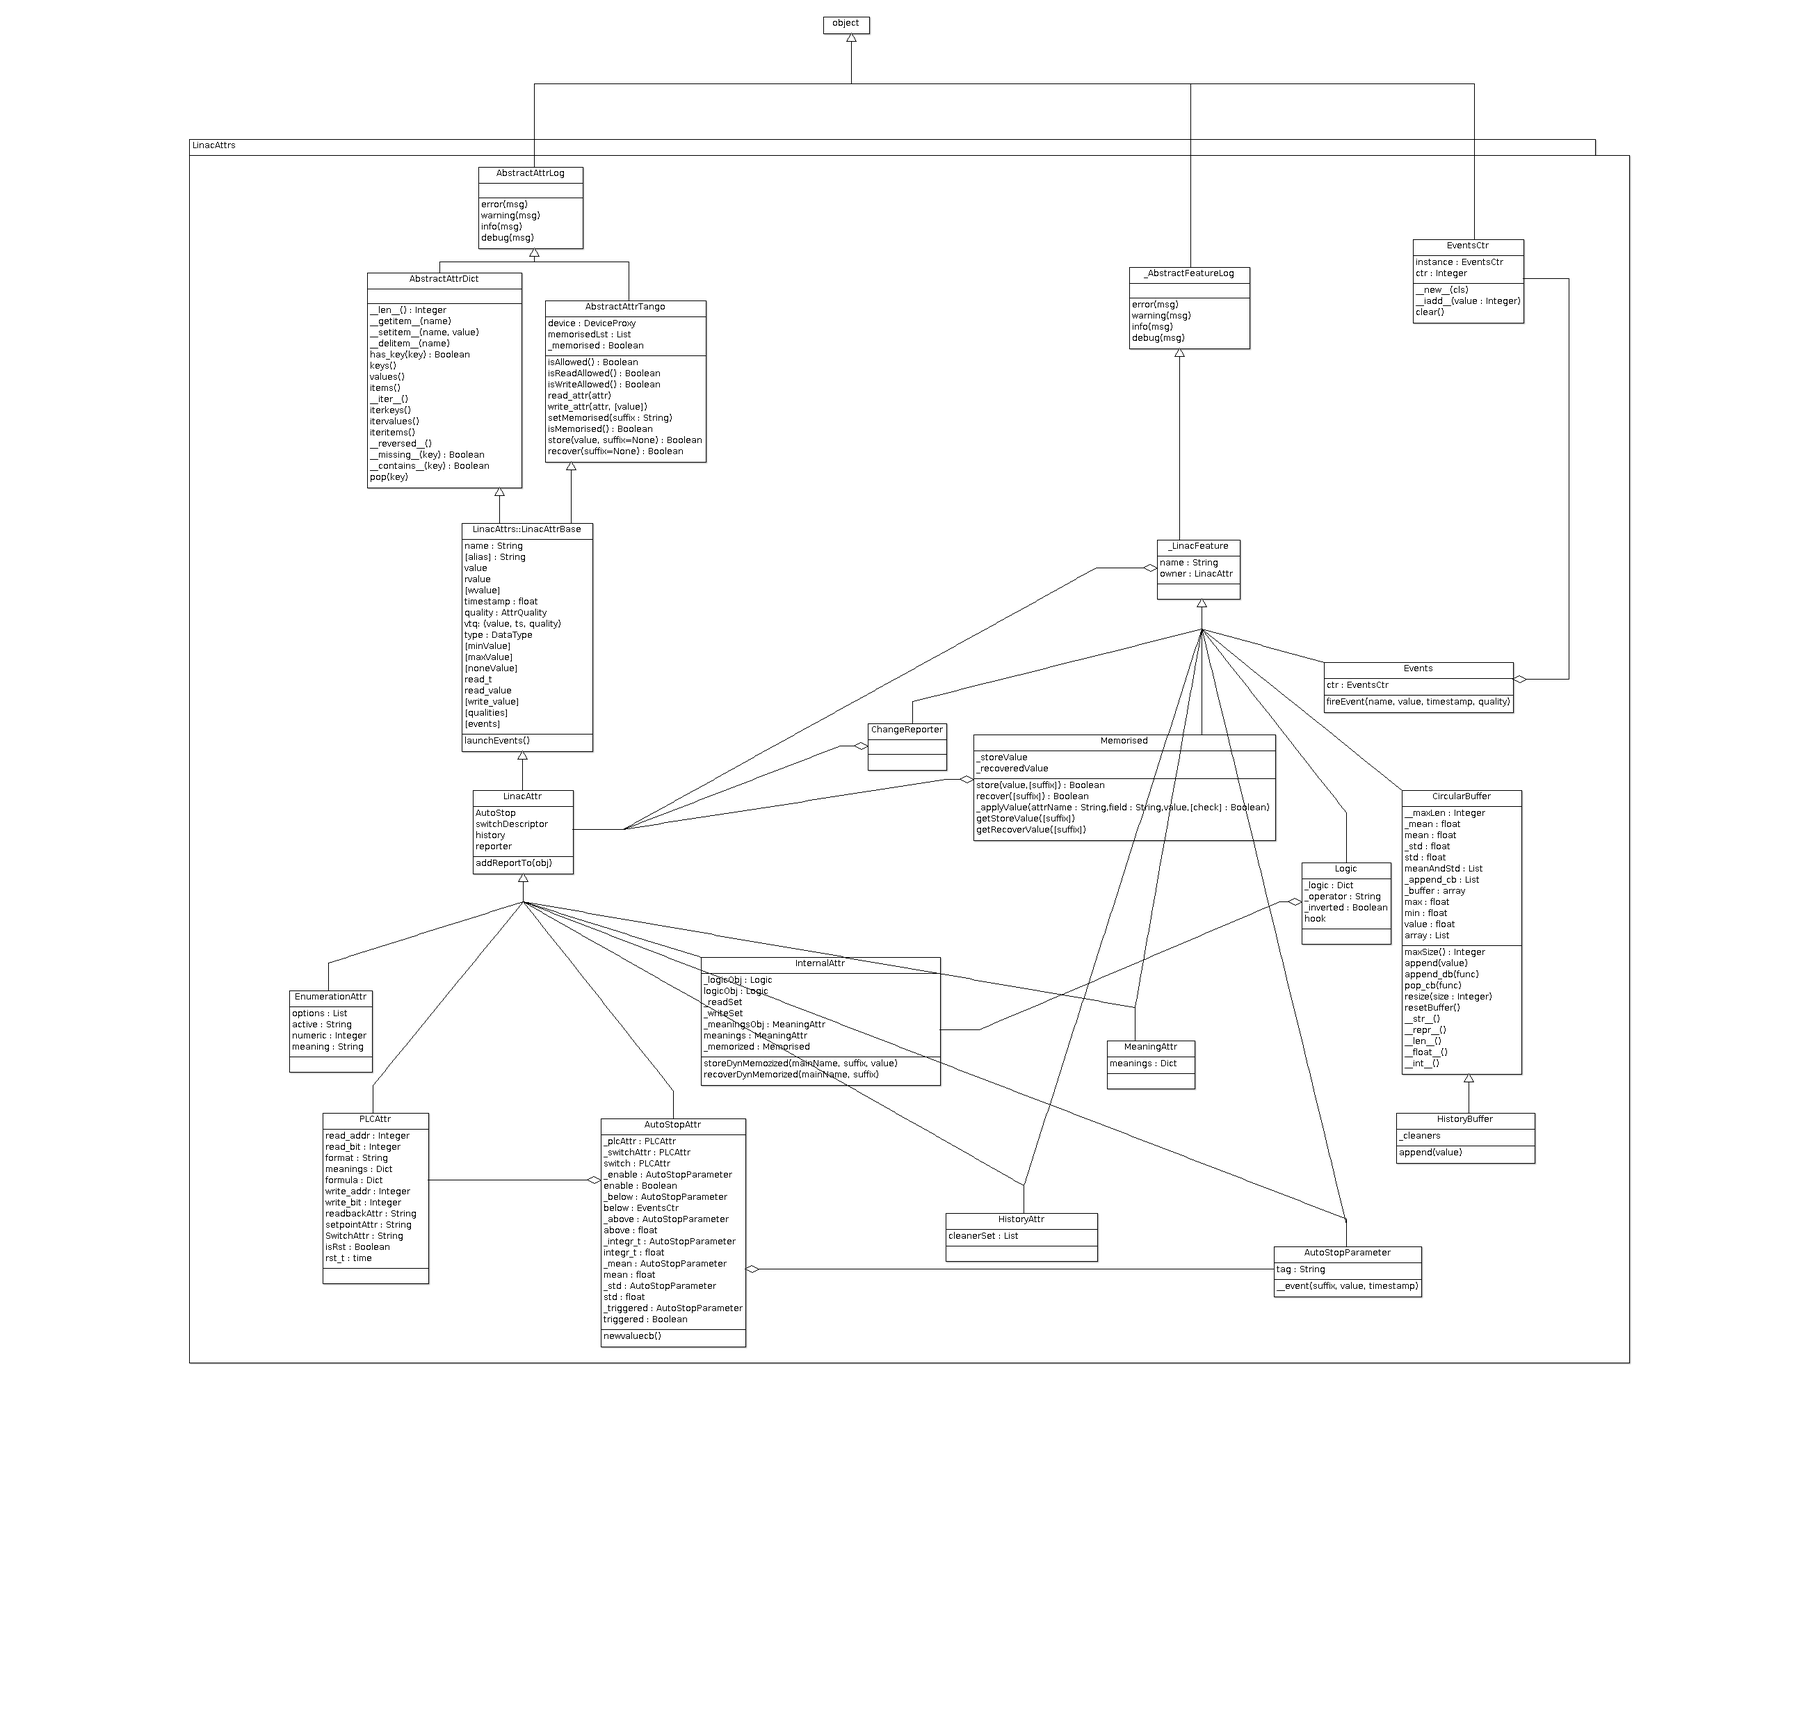
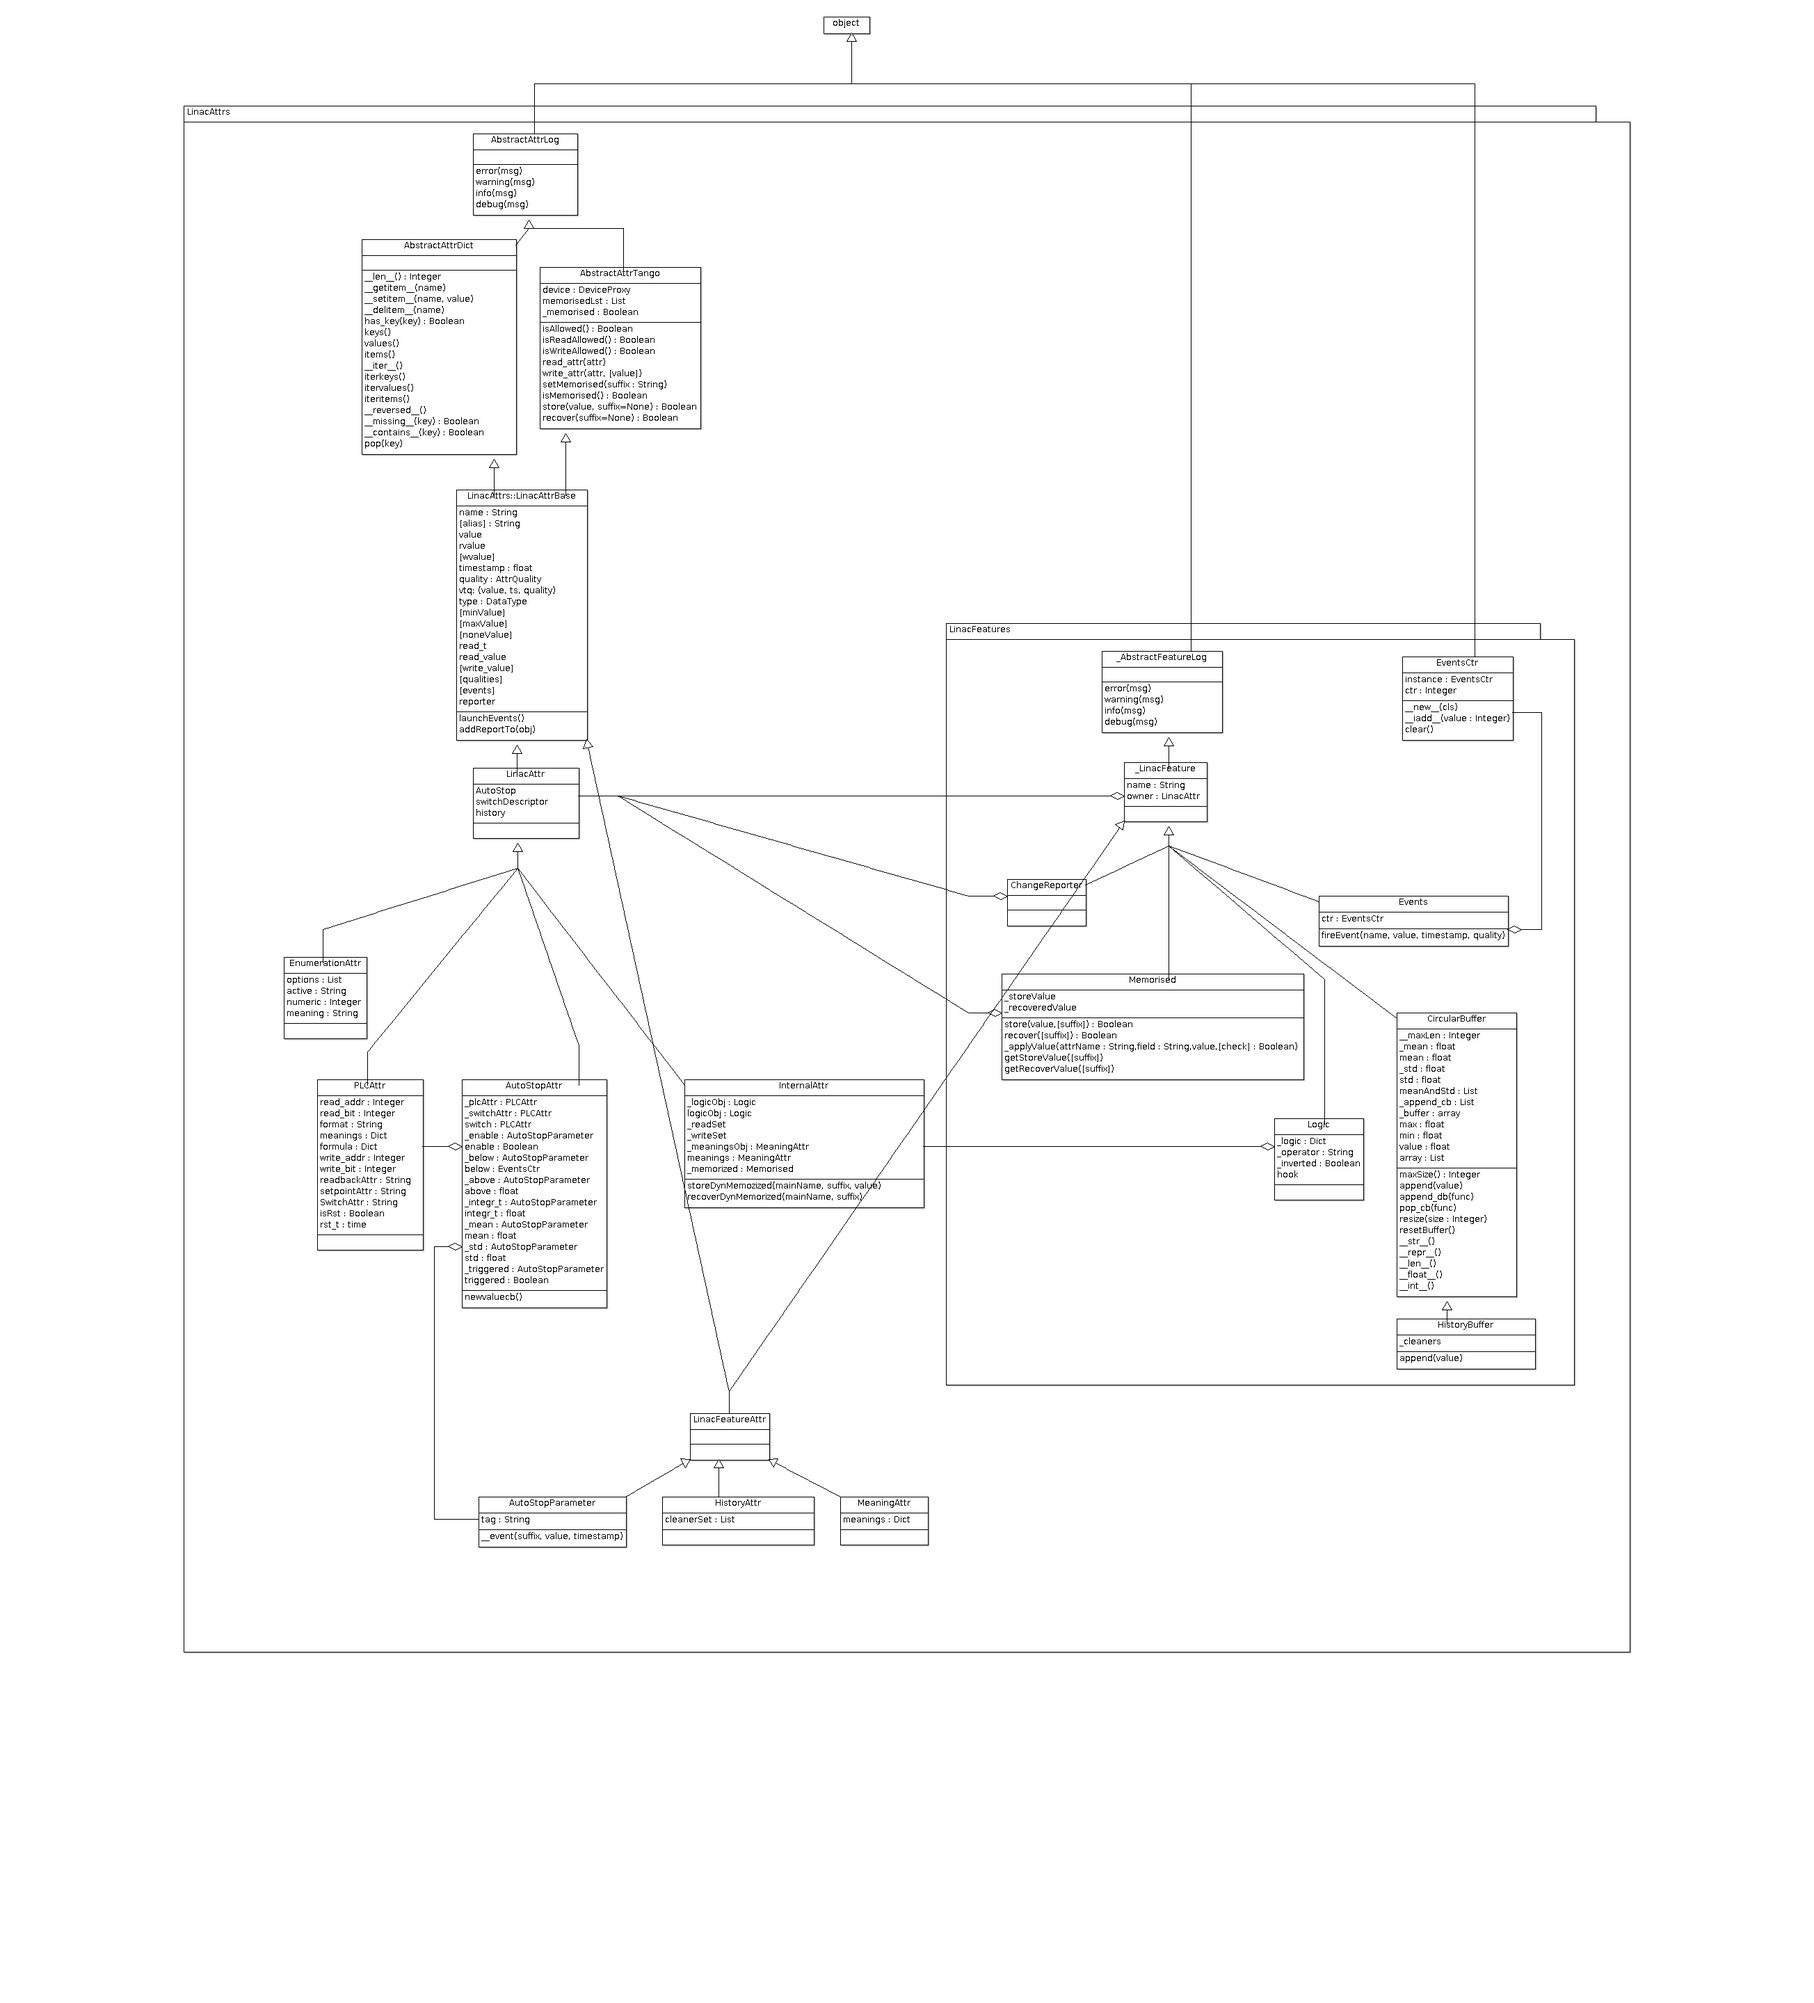
new intermediate superclass for the multiple inheritance on the linac features that are attributes at the same time

diff --git a/LinacAttrs/linacAttr.py b/LinacAttrs/linacAttr.py
@@ -17,7 +17,7 @@
 
 from .historyAttr import HistoryAttr, BASESET
 from .linacAttrBase import LinacAttrBase
-from .LinacFeatures import Events, ChangeReporter
+from .LinacFeatures import Events
 from .LinacFeatures import HistoryBuffer
 
 __author__ = "Lothar Krause and Sergi Blanch-Torne"
@@ -32,8 +32,6 @@ class LinacAttr(LinacAttrBase):
 
     _AutoStop = None
     _switchDescriptor = None
-
-    _changeReporter = None
 
     def __init__(self, *args, **kwargs):
         super(LinacAttr, self).__init__(*args, **kwargs)
@@ -71,15 +69,3 @@ class LinacAttr(LinacAttrBase):
 
     # FIXME: other features in plcAttr can be moved here to be available for
     #        internal attributes also.
-
-    #############################################################
-    # Dependencies between attributes and changes propagation ---
-    def addReportTo(self, obj, methodName=None):
-        if self._changeReporter is None:
-            self._changeReporter = ChangeReporter(self)
-        self._changeReporter.addDestination(obj,
-                                            methodName or 'evaluateAttrValue')
-
-    @property
-    def reporter(self):
-        return self._changeReporter

diff --git a/LinacAttrs/linacFeatureAttr.py b/LinacAttrs/linacFeatureAttr.py
@@ -1,0 +1,29 @@
+# ##### BEGIN GPL LICENSE BLOCK #####
+#
+#  This program is free software; you can redistribute it and/or
+#  modify it under the terms of the GNU General Public License
+#  as published by the Free Software Foundation; either version 3
+#  of the License, or (at your option) any later version.
+#
+#  This program is distributed in the hope that it will be useful,
+#  but WITHOUT ANY WARRANTY; without even the implied warranty of
+#  MERCHANTABILITY or FITNESS FOR A PARTICULAR PURPOSE.  See the
+#  GNU General Public License for more details.
+#
+#  You should have received a copy of the GNU General Public License
+#  along with this program; If not, see <http://www.gnu.org/licenses/>.
+#
+# ##### END GPL LICENSE BLOCK #####
+
+#from .linacAttr import LinacAttr
+from .linacAttrBase import LinacAttrBase
+from .LinacFeatures import _LinacFeature
+
+__author__ = "Lothar Krause and Sergi Blanch-Torne"
+__maintainer__ = "Sergi Blanch-Torne"
+__copyright__ = "Copyright 2017, CELLS / ALBA Synchrotron"
+__license__ = "GPLv3+"
+
+class _LinacFeatureAttr(_LinacFeature, LinacAttrBase):
+    pass
+

diff --git a/LinacAttrs/linacAttrBase.py b/LinacAttrs/linacAttrBase.py
@@ -55,6 +55,8 @@ class LinacAttrBase(_AbstractAttrDict, _AbstractAttrTango):
     _events = None
     _eventsObj = None
 
+    _changeReporter = None
+
     def __init__(self, name, valueType, events=None, minValue=None,
                  maxValue=None, *args, **kwargs):
         # meanings must be is a subclass of LinacAttr or
@@ -287,3 +289,15 @@ class LinacAttrBase(_AbstractAttrDict, _AbstractAttrTango):
         #        reported and will be itself the one that emits the event).
         if hasattr(self, '_changeReporter') and self._changeReporter:
             self._changeReporter.report()
+
+    #############################################################
+    # Dependencies between attributes and changes propagation ---
+    def addReportTo(self, obj, methodName=None):
+        if self._changeReporter is None:
+            self._changeReporter = ChangeReporter(self)
+        self._changeReporter.addDestination(obj,
+                                            methodName or 'evaluateAttrValue')
+
+    @property
+    def reporter(self):
+        return self._changeReporter

diff --git a/LinacAttrs/meaningAttr.py b/LinacAttrs/meaningAttr.py
@@ -15,8 +15,9 @@
 #
 # ##### END GPL LICENSE BLOCK #####
 
-from .linacAttr import LinacAttr
-from .LinacFeatures import _LinacFeature
+#from .linacAttr import LinacAttr
+#from .LinacFeatures import _LinacFeature
+from .linacFeatureAttr import _LinacFeatureAttr
 from PyTango import DevString
 
 __author__ = "Lothar Krause and Sergi Blanch-Torne"
@@ -25,7 +26,7 @@ __copyright__ = "Copyright 2017, CELLS / ALBA Synchrotron"
 __license__ = "GPLv3+"
 
 
-class MeaningAttr(_LinacFeature, LinacAttr):
+class MeaningAttr(_LinacFeatureAttr):
     _meanings = {}
 
     def __init__(self, owner, *args, **kwargs):

diff --git a/LinacAttrs/autostopAttr.py b/LinacAttrs/autostopAttr.py
@@ -17,7 +17,8 @@
 
 from .linacAttr import LinacAttr
 from .LinacFeatures import CircularBuffer
-from .LinacFeatures import _LinacFeature
+#from .LinacFeatures import _LinacFeature
+from .linacFeatureAttr import _LinacFeatureAttr
 from PyTango import AttrQuality, DevBoolean, DevFloat
 from time import time
 
@@ -241,7 +242,7 @@ class AutoStopAttr(LinacAttr):
                 self.info("Rearm the AutoStop")
 
 
-class AutoStopParameter(_LinacFeature, LinacAttr):
+class AutoStopParameter(_LinacFeatureAttr):
 
     _tag = None
     _type = None

diff --git a/LinacAttrs/historyAttr.py b/LinacAttrs/historyAttr.py
@@ -15,8 +15,9 @@
 #
 # ##### END GPL LICENSE BLOCK #####
 
-from .linacAttrBase import LinacAttrBase
-from .LinacFeatures import _LinacFeature
+#from .linacAttrBase import LinacAttrBase
+#from .LinacFeatures import _LinacFeature
+from .linacFeatureAttr import _LinacFeatureAttr
 from PyTango import DevString
 
 __author__ = "Lothar Krause and Sergi Blanch-Torne"
@@ -28,7 +29,7 @@ __license__ = "GPLv3+"
 BASESET = 'baseSet'
 
 
-class HistoryAttr(_LinacFeature, LinacAttrBase):
+class HistoryAttr(_LinacFeatureAttr):
 
     _cleanerSet = None
 
